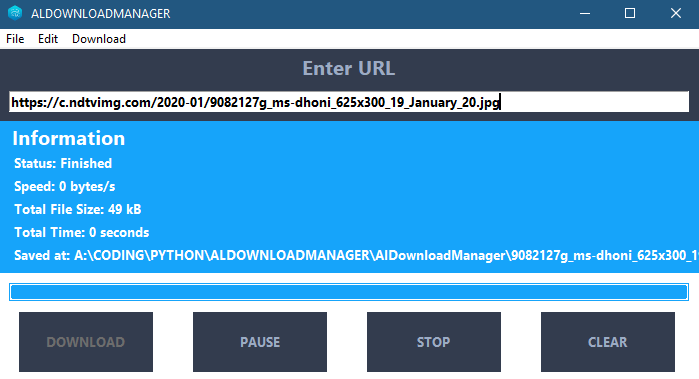
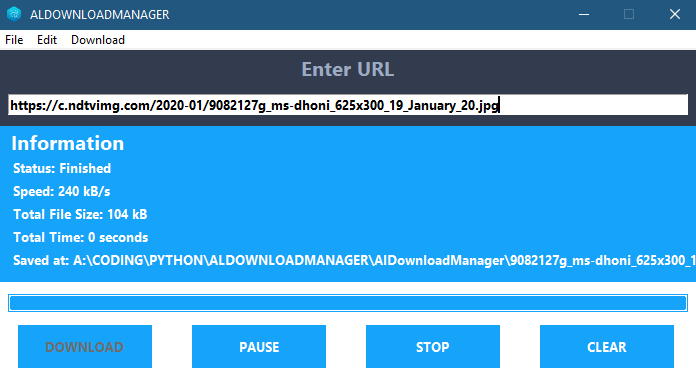
AlDownloadManager

diff --git a/AlDownloadManager.py b/AlDownloadManager.py
@@ -232,13 +232,13 @@ class AlDownloadManager():
         progress = ttk.Progressbar(frameProgress, style="bar.Horizontal.TProgressbar", orient=HORIZONTAL, length=700, mode='determinate')
         progress.pack(fill=X, expand=1,padx=10, pady=7)
         
-        downloadButton = Button(frameAction, text="DOWNLOAD", command=lambda: startDownloading(), width=16, height=3, fg="#9cabc4", bd=0, bg='#333c4e', font=textFont)
+        downloadButton = Button(frameAction, text="DOWNLOAD", command=lambda: startDownloading(), width=16, height=2, fg="white", bd=0, bg='#16a4fa', font=textFont)
         downloadButton.grid(row=1,column=1,padx=20)
-        pauseButton = Button(frameAction, state=DISABLED, text="PAUSE", width=16, height=3, fg="#9cabc4",bd=0, bg='#333c4e', font=textFont)
+        pauseButton = Button(frameAction, state=DISABLED, text="PAUSE", width=16, height=2, fg="white",bd=0, bg='#16a4fa', font=textFont)
         pauseButton.grid(row=1,column=2,padx=20)
-        stopButton = Button(frameAction, state=DISABLED, text="STOP", width=16, height=3, fg="#9cabc4",bd=0, bg='#333c4e', font=textFont)
+        stopButton = Button(frameAction, state=DISABLED, text="STOP", width=16, height=2, fg="white",bd=0, bg='#16a4fa', font=textFont)
         stopButton.grid(row=1,column=3,padx=20)
-        clearButton = Button(frameAction, text="CLEAR", command=lambda: clearReset(), width=16, height=3, fg="#9cabc4",bd=0, bg='#333c4e', font=textFont)
+        clearButton = Button(frameAction, text="CLEAR", command=lambda: clearReset(), width=16, height=2, fg="white",bd=0, bg='#16a4fa', font=textFont)
         clearButton.grid(row=1,column=4,padx=20)
 
         menuWindow = Menu(root, tearoff=0)
@@ -253,4 +253,4 @@ class AlDownloadManager():
         root.mainloop()
 
 if __name__ == "__main__":
-    AlDownloadManager() 
+    AlDownloadManager()
